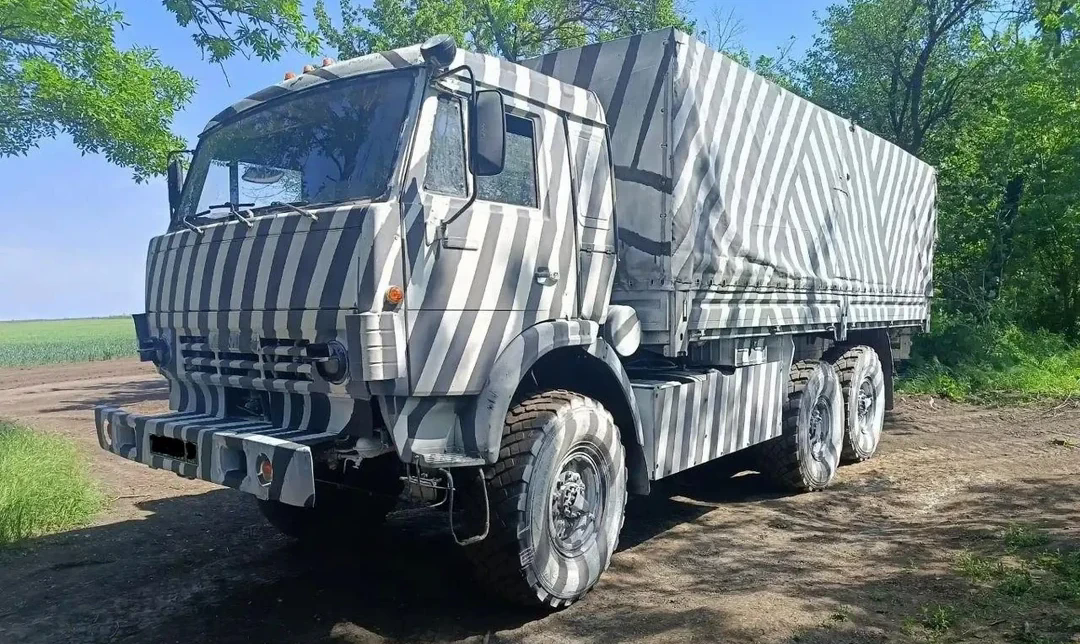
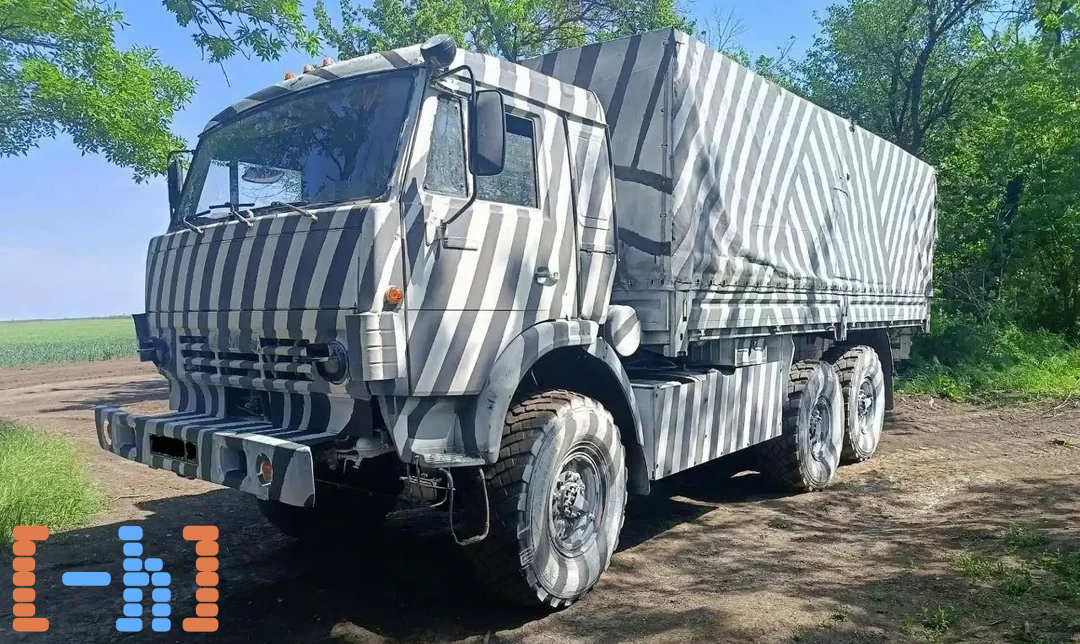
New Post: Zebra Trucks

Changed region(s): [[0.0, 0.8075, 0.2139, 0.9938]]

diff --git a/src/content/blog/drones-vs-zebra-trucks/drones-vs-zebra-trucks.md b/src/content/blog/drones-vs-zebra-trucks/drones-vs-zebra-trucks.md
@@ -1,6 +1,6 @@
 ---
 title: Drone vs Zebra
-description: "Zebra Trucks: Computer Vision Story"
+description: "Zebra Trucks: a Computer Vision Story"
 pubDate: 2026-06-28
 featured: false
 tags:
@@ -14,7 +14,7 @@ lang: fa
 ![camouflaged-truck](hero.png)
 
 فرض کنید به عنوان مسئول استتار کامیون مهمات لجیستیک میاید و کامیون رو به شکل راه راه رنگ میزنید تا از دست پهپاد های اوکراینی در امان بمونید. اما چرا اینکار رو میکنید؟
-
+### لینک خبر:
 > [RFE/RL – Zebra Trucks: Why Russia Is Using 'Dazzle Camouflage' In Ukraine](https://www.rferl.org/a/zebra-dazzle-camouflage-ai-hornet-drones-russia-ukraine-invasion/33771856.html)
 
 در جنگ های `Modern Warfare` امروزی AI نقش چشم گیری رو ایفا میکنه و به دنبال اون توانایی مقابله با سلاح های به اصطلاح `AI-Integrated` بیش از پیش اهمیت پیدا کرده. برای اینکه ببینیم که چطوری این خطوط موازی به استتار این کامیون روس کمک میکنن باید اول به چند تا کانسپت `Computer Vision` یا بینایی ماشین سر بزنیم.
@@ -91,7 +91,9 @@ lang: fa
 <br>
 <br>
 <br>
- 
+
+### مقالات و رفرنس ها
+
 >- [ImageNet-trained CNNs are biased towards texture; increasing shape bias improves accuracy and robustness](https://arxiv.org/abs/1811.12231)
 > 
 > - [A Survey of Camouflaged Object Detection and Beyond](https://arxiv.org/abs/2408.14562)
@@ -103,5 +105,4 @@ lang: fa
 > - [Computer Vision: Algorithms and Applications (Richard Szeliski)](https://szeliski.org/Book/)
 > 
 > - [Deep Learning Book (Goodfellow, Bengio, Courville)](https://www.deeplearningbook.org/)
-
 